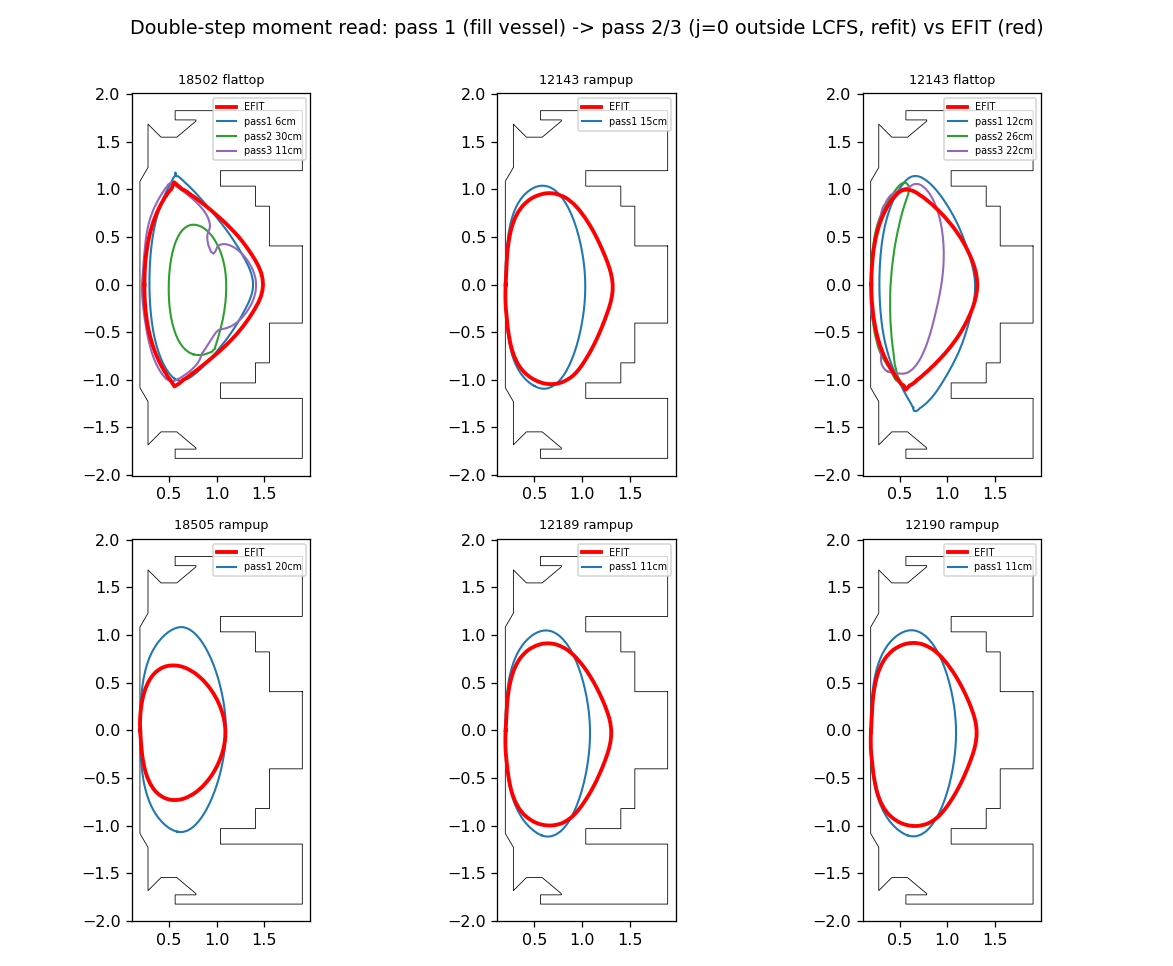
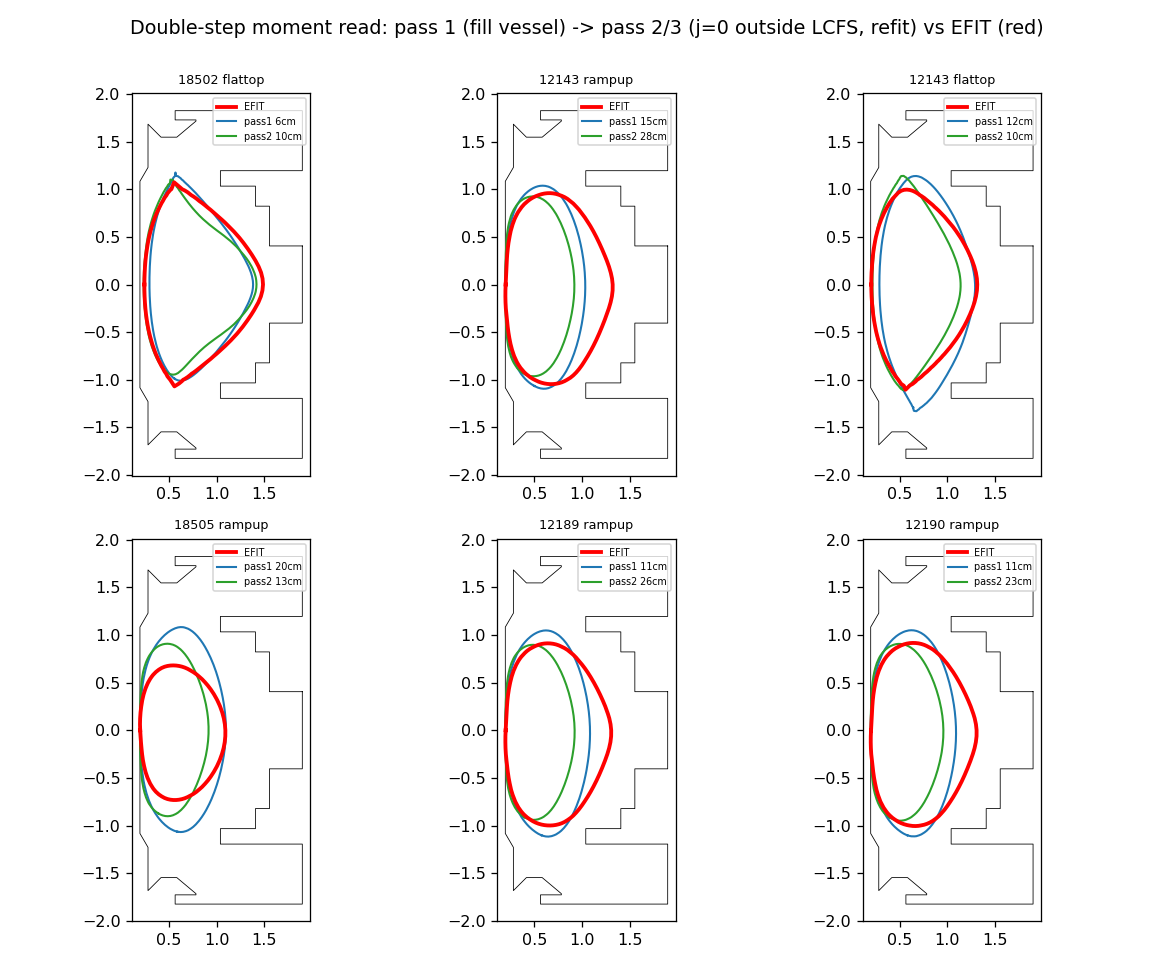
fix(double-step-moment): regularize confined refit + push from O-point — valid boundaries
The floating-oval boundary was a real bug: at the stock ridge the confined moment
basis (near-collinear on a smaller region) blew up into a wildly oscillating current
(+/-10kA, 46% negative) that destroyed the plasma O-point, and pushing from the
current-centroid (a psi-min for that garbage) traced a spurious floating contour.
Fix: escalate the ridge until the refit current is single-signed, and push from the
plasma O-point (psi-max inside the confined region). Pass-2 boundaries are now valid
closed D-shapes reaching the limiter. Result is mixed (helps 18505 rampup 20->13,
12143 flattop 12->10; hurts 12189/12190 rampup) — valid method, not a robust win over
single-pass; the near-edge boundary null-space remains. Doc S12 corrected.

diff --git a/docs/th-boundary-robustness.html b/docs/th-boundary-robustness.html
@@ -394,47 +394,46 @@
       far better. That misfit is the ready-made gate signal for the selection (§13).
     </p>
 
-    <h2 id="s12">§12 — Double-step (confine-and-refit) moment: tested, collapses</h2>
+    <h2 id="s12">§12 — Double-step (confine-and-refit) moment: bug fixed; valid but not a robust win</h2>
     <p>
-      Tested (<code>scripts/_double_step_moment_prototype.py</code>) to cure the moment
-      over-sizing: pass 1 fills the vessel &rarr; LCFS&#8321;; mask <code>J&#966;=0</code>
+      Idea (correct): pass 1 fills the vessel &rarr; LCFS&#8321;; mask <code>J&#966;=0</code>
       outside LCFS&#8321; (a cheap COLUMN mask of the precomputed interaction matrix — no
-      Green's recompute); pass 2 refits. It <strong>collapses the read</strong> — 18502
-      flat-top 5.8 &rarr; 30 cm, the ramp-ups refit to no closed ring, and further passes run
-      away.
+      Green's recompute); pass 2 refits on the confined cohort. The first implementation had a
+      <strong>bug</strong>: at the stock ridge (1e-8) the confined moment basis (near-collinear
+      monomials on a smaller region) is ill-conditioned and the refit blows up into a wildly
+      oscillating current (&plusmn;10&nbsp;kA, 46% negative) that <em>destroys the plasma
+      O-point</em>. The push-out, given that non-physical ψ and a current-centroid origin sitting
+      in a ψ-minimum, traced a spurious floating oval — a boundary connected to neither an X-point
+      nor the limiter. That was a real defect, not a physics result.
+    </p>
+    <p>
+      <strong>Fix:</strong> escalate the ridge until the refit current is single-signed (a
+      physical peaked plasma — the smallest regularisation that keeps it so), and push from the
+      plasma O-point (ψ-max inside the confined region), not the current centroid. With that the
+      pass-2 boundaries are <strong>valid closed D-shapes that reach the limiter</strong>.
     </p>
     <figure>
       <img src="/imas-ambix/figures/th-boundary-robustness/double-step-moment.png"
-           alt="Double-step moment: pass 2/3 collapse the boundary vs pass 1"
+           alt="Double-step moment (fixed): valid pass-2 D-shapes vs pass-1 vs EFIT"
            style="max-width:100%;height:auto;border:1px solid #ccc">
       <figcaption>
-        Double-step moment: pass 1 (blue, fill vessel) vs pass 2/3 (green/purple, j=0 outside
-        LCFS then refit) vs EFIT (red). Pass 2 collapses the boundary; ramp-ups find no ring.
+        Double-step moment, regularised + O-point push: pass 1 (blue, fill vessel) vs pass 2
+        (green, j=0 outside LCFS&#8321; then refit) vs EFIT (red). Boundaries are now valid
+        (closed, reach the limiter) — the earlier floating-oval defect is gone.
       </figcaption>
     </figure>
     <p>
-      <strong>Why (measured, corrected):</strong> the pass-2 fit is not worse — it is
-      <em>better</em> (18502 sensor misfit 0.368 &rarr; 0.165, Ip preserved). But the push-out
-      boundary <em>shrinks</em> (Rout 1.38 &rarr; 1.10; verified independent of push origin and
-      basis scale). The confined current genuinely has a smaller separatrix even though it fits
-      the external sensors better. The root cause is a <strong>null-space</strong>: the plasma
-      boundary is a near-edge feature (the X-point / separatrix, set by the total field close to
-      the plasma) that the <em>far</em> external magnetics do not uniquely determine. The moment
-      read's separatrix sits at roughly the <em>extent</em> of where current is allowed to live,
-      so confining the current to inside LCFS&#8321; makes a more compact plasma with a smaller
-      separatrix — and iterating runs away. This is a <em>forward</em>-solve move applied to an
-      <em>inverse</em> read; it improves the fit but not the boundary.
-    </p>
-    <p>
-      The <strong>current-disc</strong> variant (a disc on the current centroid sized to a
-      fraction of the centroid&ndash;limiter distance) confirms it: on 18502 a large disc
-      (0.8&middot;d, ≈ vessel-filling) recovers single-pass (6.0 cm) while a small disc
-      under-sizes badly (0.4&middot;d &rarr; 55 cm); on the 12143 ramp-up <em>every</em> disc is
-      worse than single-pass (33&ndash;66 cm vs 15.3 cm). The boundary tracks the current extent,
-      and <strong>filling the vessel is exactly what puts the separatrix in the right place</strong>
-      — which is why the single-pass moment read tracks EFIT and is the well-posed version. The
-      ~15 cm ramp-up residual is a genuine information floor of a magnetics-only boundary read on a
-      poorly-diagnosed slice; the §3 force-balance interior solve is what should own those slices.
+      <strong>Result (mixed, not a robust win):</strong> pass 2 helps some slices (18505 ramp-up
+      20&rarr;13 cm, 12143 flat-top 12&rarr;10 cm) and hurts others (12189/12190 ramp-up
+      11&rarr;26/23 cm; 18502 flat-top 6&rarr;10 cm). The sweet-spot regularisation is
+      slice-dependent, and the underlying null-space remains: the plasma boundary is a near-edge
+      (X-point) feature the <em>far</em> external magnetics do not uniquely determine, so confining
+      the current trades one plausible boundary for another without new information. The
+      <strong>current-disc</strong> variant confirms the same — a large disc (≈ vessel-filling)
+      recovers single-pass (6.0 cm on 18502) while smaller discs under-size, and every disc is
+      worse than single-pass on the ramp-up. Net: the single-pass "fill the vessel" moment read is
+      the more robust choice; the ~15 cm ramp-up residual is an information floor of any
+      magnetics-only boundary read, owned by the §3 force-balance solve.
     </p>
 
     <h2 id="s13">§13 — Open decisions</h2>

diff --git a/scripts/_double_step_moment_prototype.py b/scripts/_double_step_moment_prototype.py
@@ -90,20 +90,42 @@ def double_step(grid, basis, p, order=3, n_extra=1):
             r_cells, z_cells, mask, r0, order=order
         )
         a_sens = m_sens @ m_basis  # COLUMN-MASKED — no Green's recompute
-        c, mis, _cov = bm._fit_one(
-            m_basis, a_sens, p.measured, p.vacuum, p.mask, p.scale,
-            float(p.ip_amperes), cfg,
-        )
-        i_cell = m_basis @ c
+        # the confined moment basis is near-collinear (collinear monomials on a
+        # smaller region) — an un-regularised refit blows up into a wildly
+        # oscillating, hollow/reversed current that destroys the plasma O-point.
+        # escalate the ridge until the refit current is essentially single-signed
+        # (a physical peaked plasma), the smallest regularisation that keeps it so.
+        c = i_cell = None
+        for ridge in (1e-6, 1e-4, 1e-2, 1e-1, 1e0, 1e1, 1e2):
+            cfg_r = MomentFitConfig(order=order, ridge=ridge)
+            c, mis, _cov = bm._fit_one(
+                m_basis, a_sens, p.measured, p.vacuum, p.mask, p.scale,
+                float(p.ip_amperes), cfg_r,
+            )
+            i_cell = m_basis @ c
+            frac_neg = float(np.mean(i_cell[mask > 0] < 0.0))
+            if frac_neg < 0.05:  # single-signed -> physical plasma current
+                break
         psi = np.asarray(basis.psi_grid_2d_np(i_cell, p.i_pf), np.float64).reshape(
             grid.nz, grid.nr
         )
-        # re-centre the push origin on the new current centroid
+        # push from the plasma O-point (psi MAX inside the confined region) — the
+        # current centroid is not the flux maximum, and lcfs_contour sweeps from
+        # psi(origin), so a non-O-point origin corrupts the sweep
         wsum = float(i_cell.sum()) or 1.0
-        ctr = (
+        cen = (
             float((i_cell * r_cells).sum() / wsum),
             float((i_cell * z_cells).sum() / wsum),
         )
+        rr, zz = np.meshgrid(grid.rg, grid.zg)
+        near = (np.hypot(rr - cen[0], zz - cen[1]) < 0.5) & MplPath(
+            ring
+        ).contains_points(np.column_stack([rr.ravel(), zz.ravel()])).reshape(
+            grid.nz, grid.nr
+        )
+        psi_o = np.where(near, psi, -np.inf)
+        io = np.unravel_index(int(np.argmax(psi_o)), psi.shape)
+        ctr = (float(grid.rg[io[1]]), float(grid.zg[io[0]]))
         ring = _push(psi, grid, ctr)
         out.append((ring, float(mis)))
     return out
@@ -132,7 +154,7 @@ def main():
                 print(f"{shot} {kind}: no efit-snapped slice")
                 continue
             k, efit = by_kind[kind]
-            passes = double_step(grid, basis, pls[k], n_extra=2)
+            passes = double_step(grid, basis, pls[k], n_extra=1)
             rms = [100.0 * _rms(r, efit) for r, _m in passes]
             panels.append((f"{shot} {kind}", grid, efit, passes, rms))
             print(f"{shot} {kind}: RMS[cm] per pass = " +
